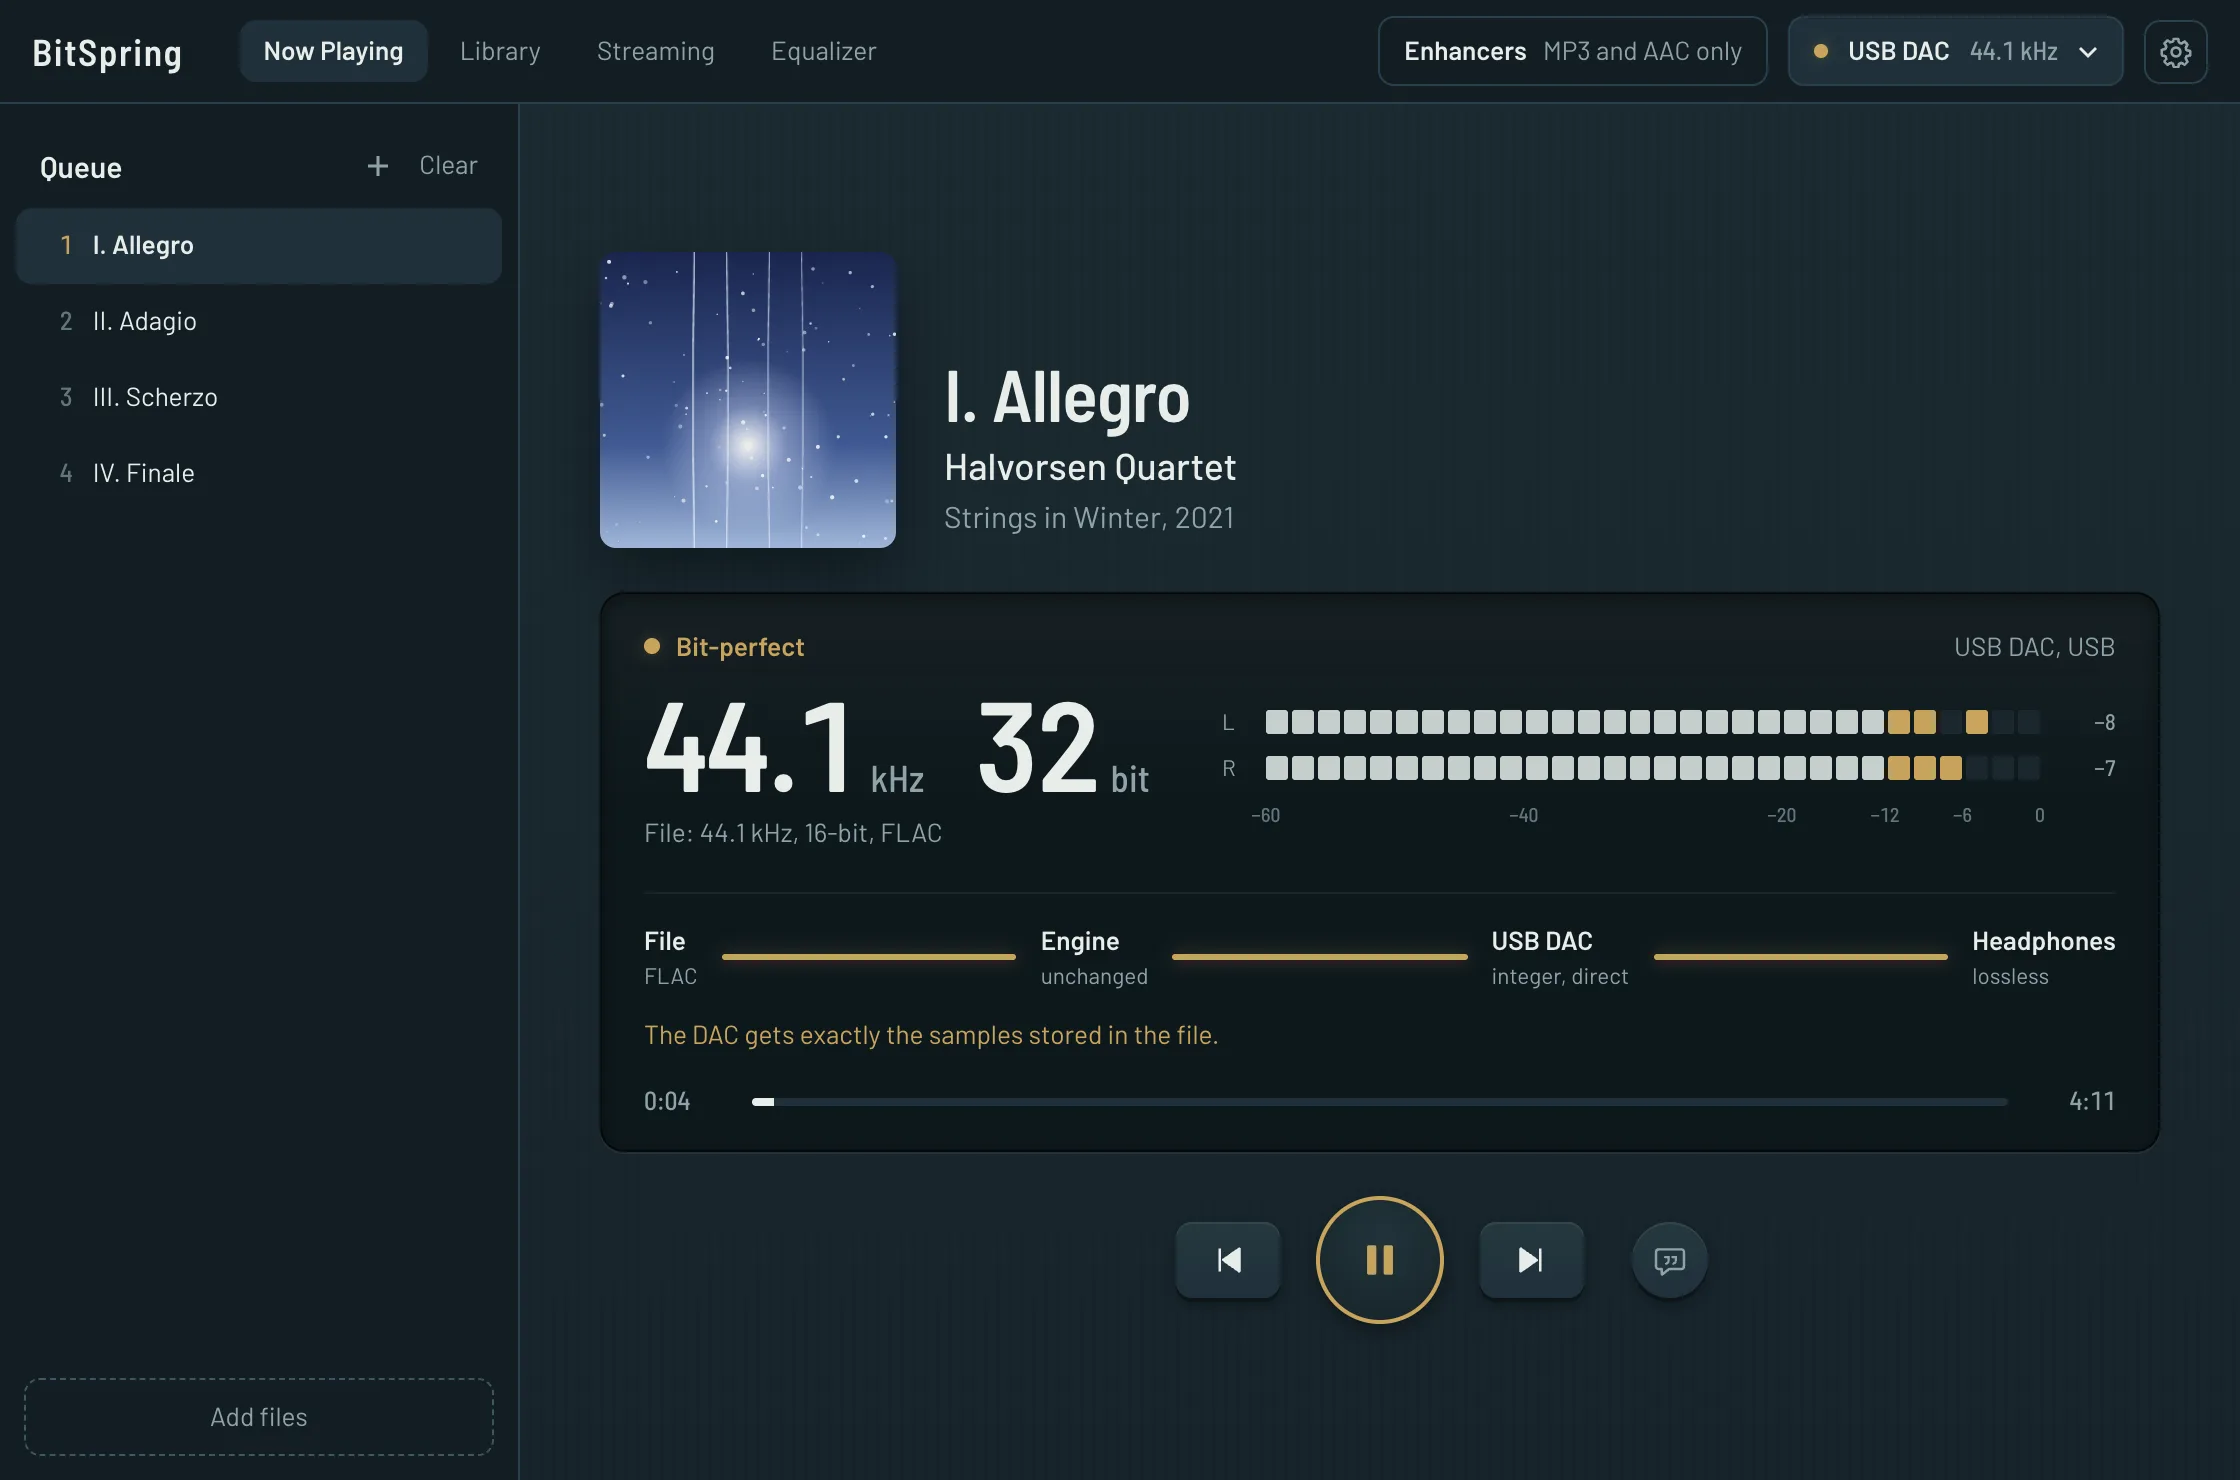
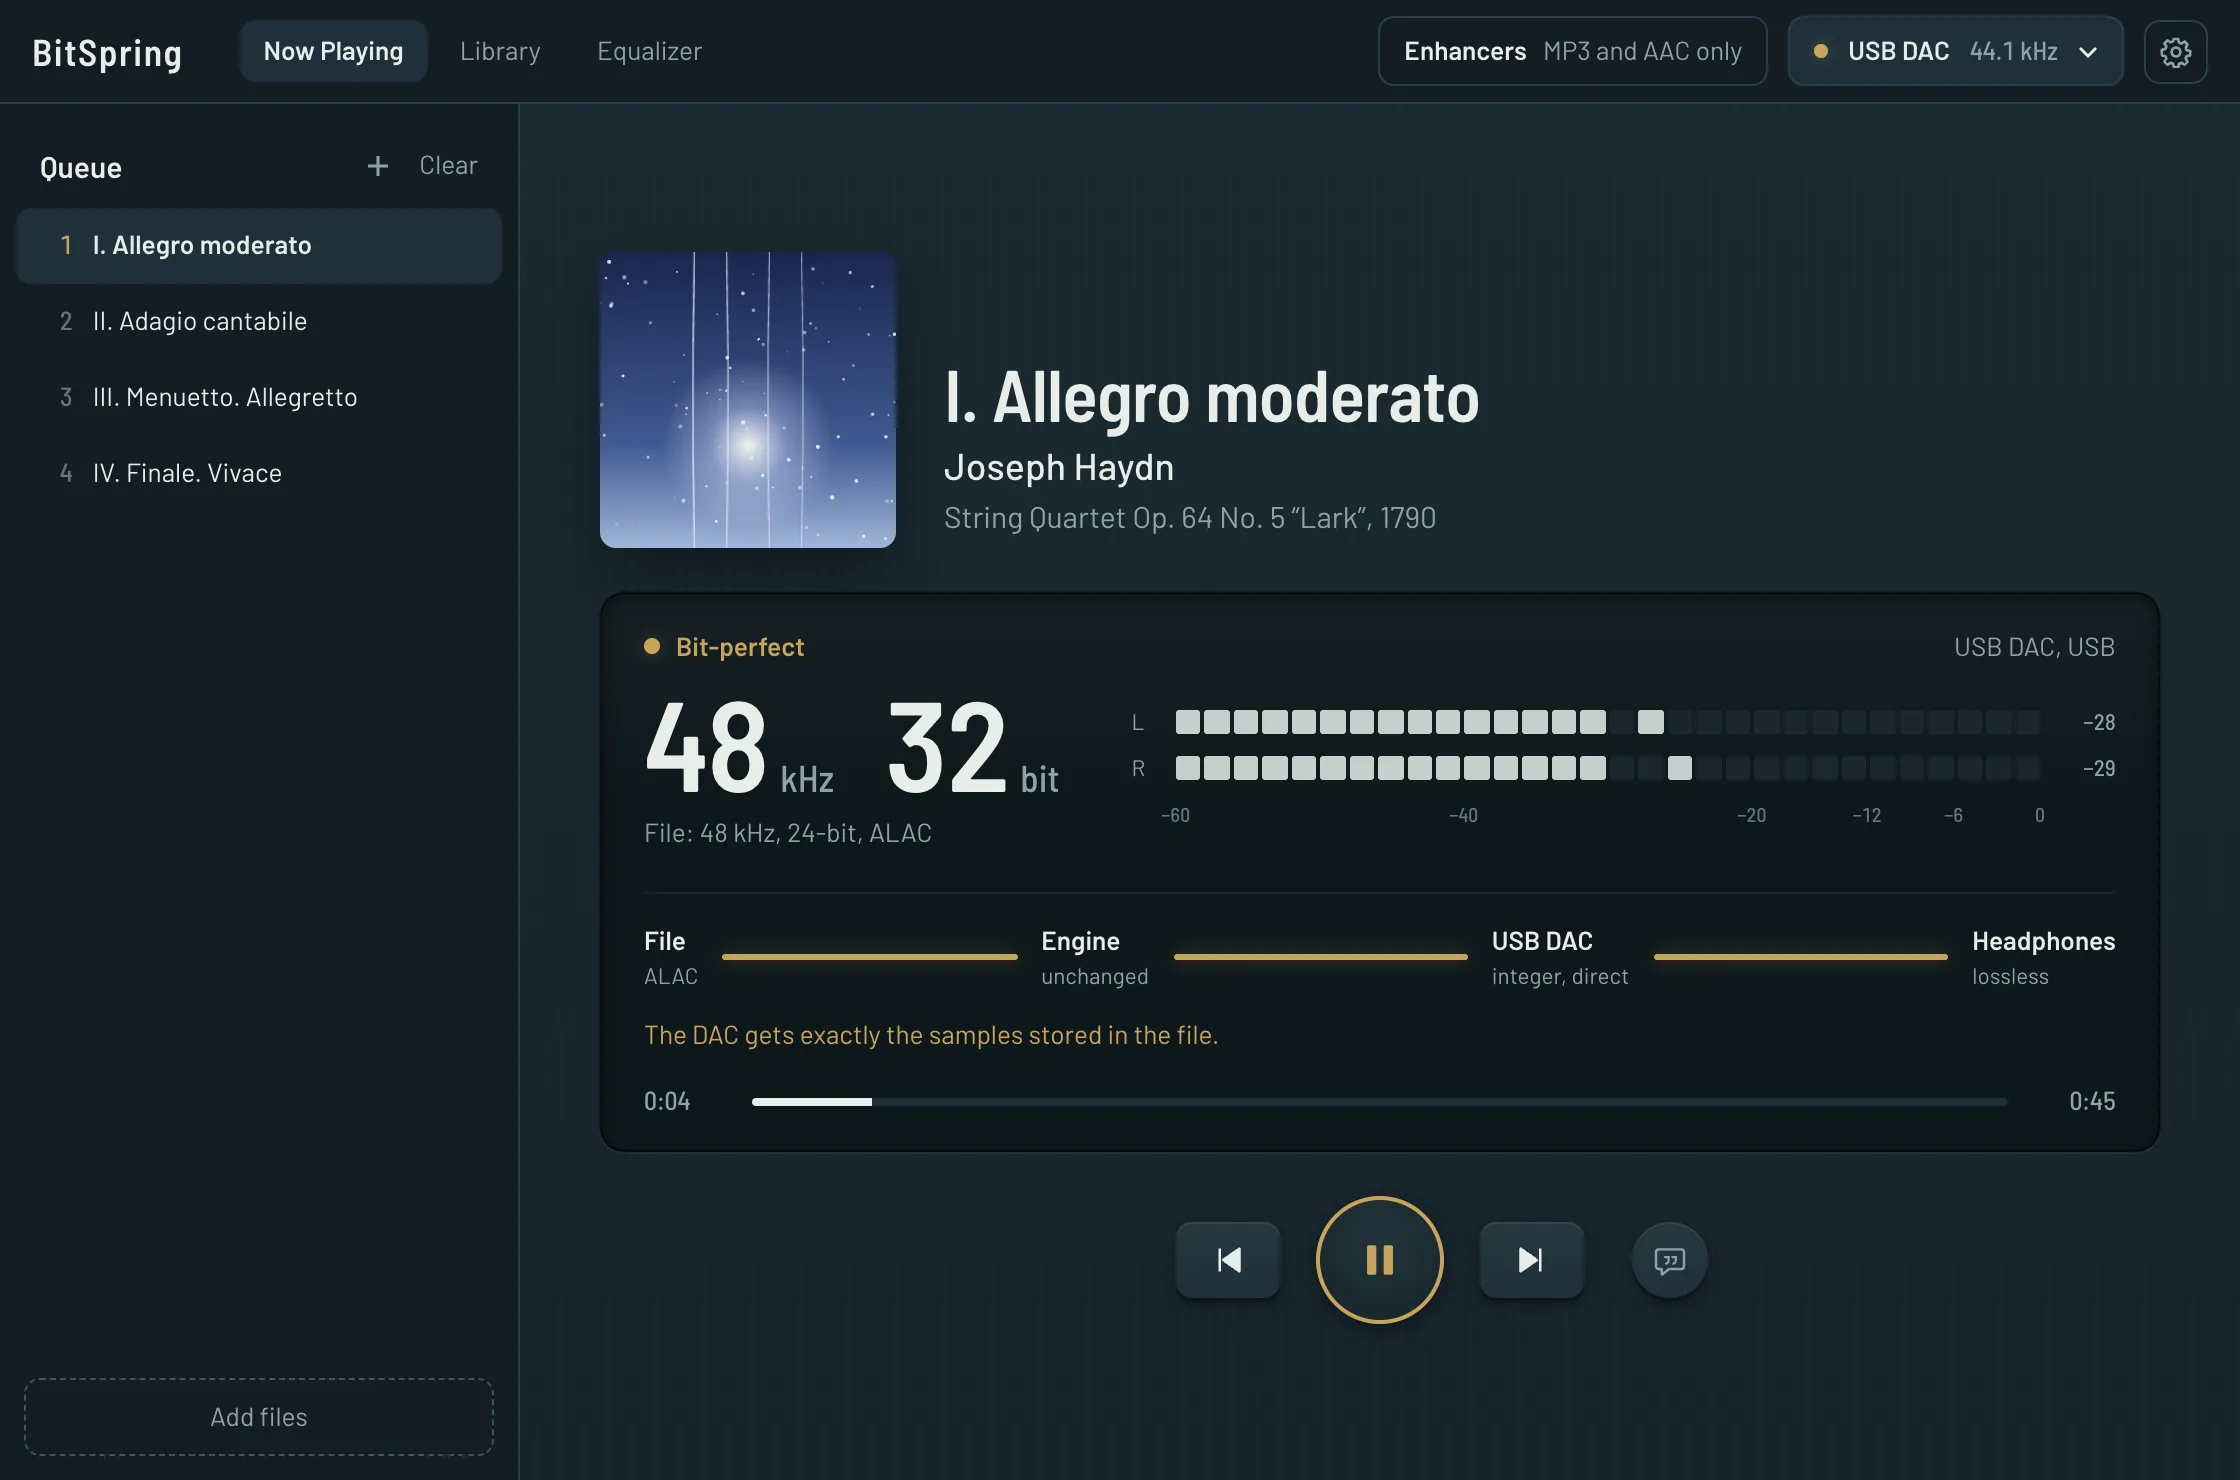
Site: smoother live demo, no streaming in the demo or the screenshots
- The live window no longer tilts with the scroll once it is live, renders at its own
  size when the frame is wider than 1120 px (scaled below that, so nothing is cut off),
  and the 3D field behind it stops drawing while it is on screen. Scrolling past the
  playing demo in Chrome: steady 120 fps, worst frame 9 ms (was 94-102 fps, up to 183 ms).
- The demo has no Streaming tab, like the store builds; the screenshots are now the
  demo's own opening view (Haydn, no Streaming tab), so picture and live window match.

diff --git a/apps/website/src/main.ts b/apps/website/src/main.ts
@@ -358,19 +358,19 @@ for (const li of $$(".enhance-list li")) {
 
 // App: dim the field behind the screenshot; the window tilts upright as it arrives.
 travel(".app", APP, "top bottom", "top 30%");
-if (!reduceMotion) {
-  gsap.fromTo(
-    ".app-frame",
-    { rotateX: 22, scale: 0.9, y: 60 },
-    {
-      rotateX: 0,
-      scale: 1,
-      y: 0,
-      ease: "none",
-      scrollTrigger: { trigger: ".app-shot", start: "top 95%", end: "top 25%", scrub: 1 },
-    },
-  );
-}
+const tilt = reduceMotion
+  ? null
+  : gsap.fromTo(
+      ".app-frame",
+      { rotateX: 22, scale: 0.9, y: 60 },
+      {
+        rotateX: 0,
+        scale: 1,
+        y: 0,
+        ease: "none",
+        scrollTrigger: { trigger: ".app-shot", start: "top 95%", end: "top 25%", scrub: 1 },
+      },
+    );
 
 // Glass | Classic: the same moment in the app, in either look. Arrow keys move between the two,
 // like any radio group.
@@ -404,7 +404,9 @@ for (const b of lookButtons) {
 // too narrow for the desktop window: there the button opens the demo full screen, in the app's
 // own phone layout.
 const DEMO_URL = import.meta.env.DEV ? "http://127.0.0.1:1420/?demo&" : "/demo/?";
-const DEMO_WIDTH = 1120;
+/** The size the app's window needs here (the screenshots' 1120×740): a wider frame gets the app
+    at its own size, a narrower one this size scaled down, so nothing is cut off at the bottom. */
+const DEMO_MIN_WIDTH = 1120;
 const wide = matchMedia("(min-width: 900px)");
 const frame = $("[data-demo-frame]");
 let demoFrame: HTMLIFrameElement | null = null;
@@ -423,8 +425,25 @@ function embedDemo() {
   demoFrame.src = demoSrc();
   // The page arrives before the app has drawn itself: give it a moment, then fade it in.
   demoFrame.addEventListener("load", () => setTimeout(() => frame.classList.add("is-live"), 350));
-  const fit = () => frame.style.setProperty("--demo-scale", String(frame.clientWidth / DEMO_WIDTH));
+  // A live window with frosted glass is costly to redraw: it sits still (no scroll tilt), at its
+  // own size rather than scaled when there is room, and the field behind it stops drawing while
+  // it is on screen.
+  tilt?.scrollTrigger?.kill();
+  tilt?.kill();
+  gsap.set(frame, { clearProps: "transform" });
+  appShot.classList.add("is-flat");
+  const fit = () => {
+    const w = frame.clientWidth;
+    const h = frame.clientHeight;
+    const scale = Math.min(1, w / DEMO_MIN_WIDTH);
+    demoFrame!.style.width = `${w / scale}px`;
+    demoFrame!.style.height = `${h / scale}px`;
+    frame.style.setProperty("--demo-scale", String(scale));
+  };
   fit();
+  if (field) {
+    new IntersectionObserver(([e]) => field.setRunning(e.intersectionRatio < 0.4), { threshold: [0, 0.4] }).observe(frame);
+  }
   new ResizeObserver(fit).observe(frame);
   frame.append(demoFrame);
 }

diff --git a/apps/desktop/src/lib/mock.ts b/apps/desktop/src/lib/mock.ts
@@ -462,7 +462,8 @@ export async function mock<T>(cmd: string, args: Record<string, unknown> = {}): 
     case "playlist_export":
       return "/Users/me/Downloads/playlist.m3u8" as T;
     case "streaming_status":
-      return { available: !isIOS && !storeBuild, quality: mockQuality, accounts: ["qobuz", "tidal"].map((s) => ({ service: s, signedIn: mockSignedIn[s], user: mockSignedIn[s] ? "me@example.com" : null, note: null })) } as T;
+      // The website demo leaves streaming out, like the store builds.
+      return { available: !isIOS && !storeBuild && !isDemo, quality: mockQuality, accounts: ["qobuz", "tidal"].map((s) => ({ service: s, signedIn: mockSignedIn[s], user: mockSignedIn[s] ? "me@example.com" : null, note: null })) } as T;
     case "streaming_set_quality":
       mockQuality = args.quality as string;
       return undefined as T;

diff --git a/apps/website/src/scene.ts b/apps/website/src/scene.ts
@@ -160,6 +160,8 @@ export interface Field {
   /** Pointer in -1..1, for a slight parallax in the hero. */
   pointer: { x: number; y: number };
   setMotion(enabled: boolean): void;
+  /** false stops drawing (the last frame stays up), e.g. while the live demo covers the field. */
+  setRunning(running: boolean): void;
   resize(): void;
 }
 
@@ -284,6 +286,9 @@ export function createField(canvas: HTMLCanvasElement, opts: { mirror?: boolean 
     resize,
     setMotion(enabled) {
       motion = enabled;
+    },
+    setRunning(running) {
+      renderer.setAnimationLoop(running ? frame : null);
     },
   };
 }

diff --git a/apps/website/src/style.css b/apps/website/src/style.css
@@ -841,8 +841,8 @@ main,
   position: absolute;
   inset-block-start: 0;
   inset-inline-start: 0;
-  width: 1120px;
-  height: 740px;
+  width: 100%;
+  height: 100%;
   border: 0;
   transform: scale(var(--demo-scale, 1));
   transform-origin: 0 0;
@@ -860,6 +860,15 @@ main,
 
 .app-frame.is-live .demo-start {
   display: none;
+}
+
+/* Under the live demo the screenshots only hold the frame's size. */
+.app-frame.is-live img {
+  visibility: hidden;
+}
+
+.app-shot.is-flat {
+  perspective: none;
 }
 
 /* On a computer the demo loads by itself (main.ts): no button, no shade over the screenshot. */
